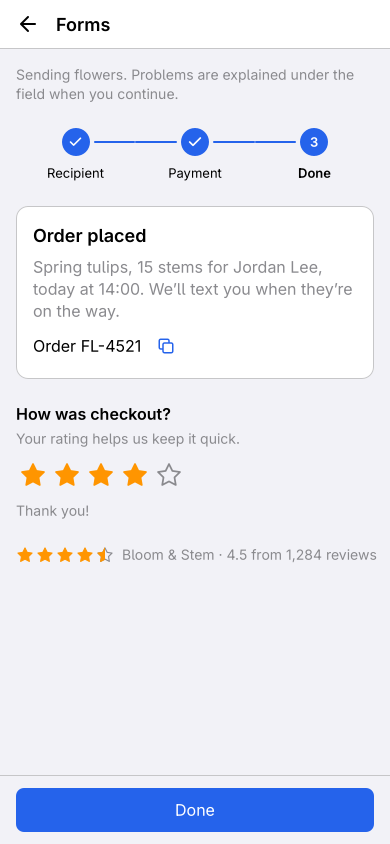
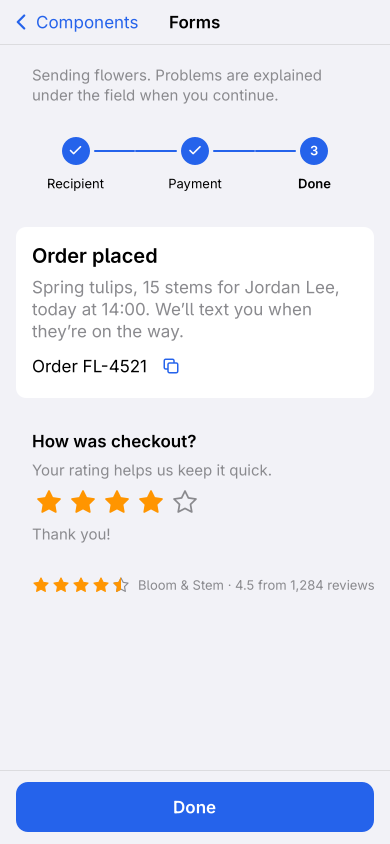
Examples: Forms page follows the components example's iOS redesign
Title-case commit labels, the filled footer button with a spinner while the
order is placed, the order summary as an inset grouped section, and fresh
Linux screenshots.

diff --git a/crates/engine/tests/component_forms.rs b/crates/engine/tests/component_forms.rs
@@ -529,7 +529,8 @@ fn the_components_example_checks_out_flowers_through_the_forms_page() {
     h.tap("continue");
 
     h.tap("continue");
-    assert!(h.texts().iter().any(|t| t.contains("Place order")), "the order is being placed");
+    assert!(h.texts().iter().any(|t| t.contains("Place Order · $50.49")), "{}", h.dump());
+    assert!(h.prop("continue", Prop::A11yState).is_some_and(|s| s == PropValue::Json(r#"{"disabled":true}"#.into())), "placing");
     h.advance(1300.0);
     assert!(h.find("confirmation").is_some(), "{}", h.dump());
     assert!(h.texts().iter().any(|t| t.contains("today at 17:45")), "{}", h.dump());
